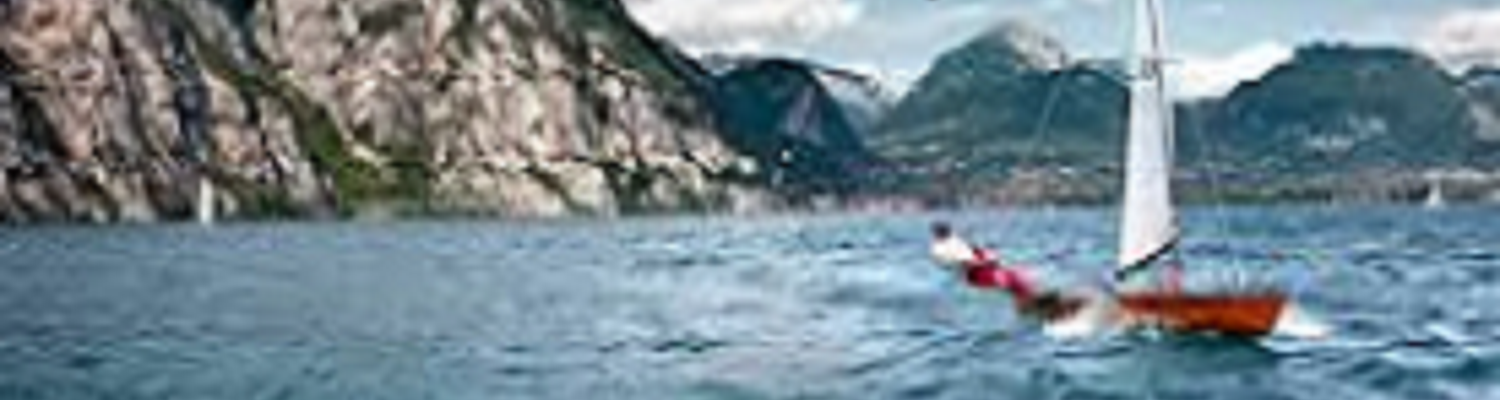
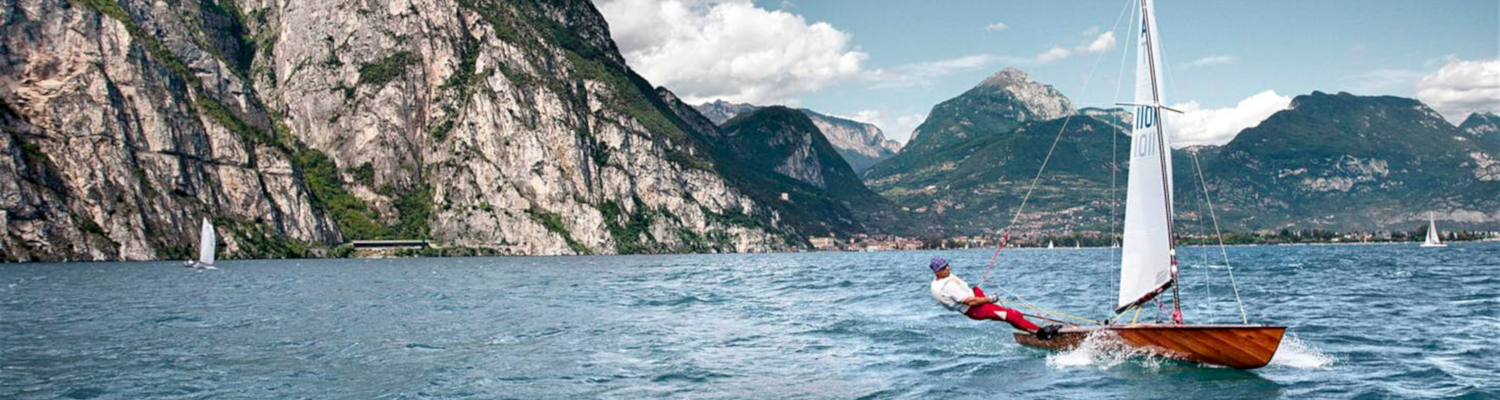
Actieviteiten opnieuw gestyled

diff --git a/src/app/frontend/components/activiteiten/activiteiten.component.html b/src/app/frontend/components/activiteiten/activiteiten.component.html
@@ -1,72 +1,38 @@
-<div id="carouselExampleIndicators" class="carousel slide" data-ride="carousel">
-  <ol class="carousel-indicators">
-    <li data-target="#carouselExampleIndicators" data-slide-to="0" class="active"></li>
-    <li data-target="#carouselExampleIndicators" data-slide-to="1"></li>
-    <li data-target="#carouselExampleIndicators" data-slide-to="2"></li>
-  </ol>
-  <div class="carousel-inner">
-    <div class="carousel-item active">
-      <img src="assets/img/activiteit_wandel.png" class="d-block w-100" alt="Wandelen" margin=auto>
-      <div class="container">
-        <div class="carousel-caption">
-          <h1 class="cslider">Wandelen</h1>
-          <p class="pSlider">Cras justo odio, dapibus ac facilisis in, egestas eget quam. Donec id elit non mi
-            porta
-            gravida at eget metus. Nullam id dolor id nibh ultricies vehicula ut id elit.</p>
-          <!--p><a class="btn btn-lg btn-primary" href="#" role="button">Informatie</a></p-->
+<div class="row mb-4">
+  <div class="col-lg-12">
+    <ngb-carousel *ngIf="images">
+      <ng-template ngbSlide>
+        <img [src]="images[0]" alt="Random first slide" style="width:100%; height:100%; background:#777; color:#777;">
+        <div class="carousel-caption carousel-inner-text">
+          <h2>ACTIVITEITEN</h2>
+          <p>Bij ons hoeft u zich nooit te vervelen. Wij bieden een groot aanbood aan activiteiten. Er is voor een ieder wat wils. Kijkt u regelmatig in ons steeds wisselende aanbod. We zien u graag terug. U bent van harte welkom!</p>
           <p>
-            <button type="button" class="btn btn-primary" data-toggle="modal"
-                    data-target="#exampleModal">Boeken
-            </button>
+            <button class="btn btn-lg btn-primary" (click)="open(modalReservation)">Reserveer</button>
           </p>
         </div>
-      </div>
-    </div>
-    <div class="carousel-item">
-      <img src="assets/img/activiteit_wijn.png" class="d-block w-100" alt="Wijn" margin=auto>
-      <div class="container">
-        <div class="carousel-caption">
-          <h1 class="cslider">Wijnproeven</h1>
-          <p class="pSlider">Cras justo odio, dapibus ac facilisis in, egestas eget quam. Donec id elit non mi
-            porta
-            gravida at eget metus. Nullam id dolor id nibh ultricies vehicula ut id elit.</p>
-          <!--p><a class="btn btn-lg btn-primary" href="#" role="button">Informatie</a></p-->
+      </ng-template>
+      <ng-template ngbSlide>
+        <img [src]="images[1]" alt="Random second slide" style="width:100%; height:100%; background:#777; color:#777;">
+        <div class="carousel-caption carousel-inner-text">
+          <h2>ACTIVITEITEN</h2>
+          <p>Bij ons hoeft u zich nooit te vervelen. Wij bieden een groot aanbood aan activiteiten. Er is voor een ieder wat wils. Kijkt u regelmatig in ons steeds wisselende aanbod. We zien u graag terug. U bent van harte welkom!</p>
           <p>
-            <button type="button" class="btn btn-primary" data-toggle="modal"
-                    data-target="#exampleModal">Boeken
-            </button>
+            <button class="btn btn-lg btn-primary" (click)="open(modalReservation)">Reserveer</button>
           </p>
         </div>
-      </div>
-    </div>
-    <div class="carousel-item">
-      <img src="assets/img/activiteit_zeilen.png" class="d-block w-100" alt="Zeilen" margin=auto>
-      <div class="container">
-        <div class="carousel-caption">
-          <h1 class="cslider">Zeilen</h1>
-          <p class="pSlider">Cras justo odio, dapibus ac facilisis in, egestas eget quam. Donec id elit non mi
-            porta
-            gravida at eget metus. Nullam id dolor id nibh ultricies vehicula ut id elit.</p>
-          <!--p><a class="btn btn-lg btn-primary" href="#" role="button">Informatie</a></p-->
+      </ng-template>
+      <ng-template ngbSlide>
+        <img [src]="images[2]" alt="Random third slide" style="width:100%; height:100%; background:#777; color:#777;">
+        <div class="carousel-caption carousel-inner-text">
+          <h2>ACTIVITEITEN</h2>
+          <p>Bij ons hoeft u zich nooit te vervelen. Wij bieden een groot aanbood aan activiteiten. Er is voor een ieder wat wils. Kijkt u regelmatig in ons steeds wisselende aanbod. We zien u graag terug. U bent van harte welkom!</p>
           <p>
-            <button type="button" class="btn btn-primary" data-toggle="modal"
-                    data-target="#exampleModal">Boeken
-            </button>
+            <button class="btn btn-lg btn-primary" (click)="open(modalReservation)">Reserveer</button>
           </p>
         </div>
-      </div>
-    </div>
+      </ng-template>
+    </ngb-carousel>
   </div>
-  <br>
-  <br>
-  <a class="carousel-control-prev" href="#carouselExampleIndicators" role="button" data-slide="prev">
-    <span class="carousel-control-prev-icon" aria-hidden="true"></span>
-    <span class="sr-only">Previous</span>
-  </a>
-  <a class="carousel-control-next" href="#carouselExampleIndicators" role="button" data-slide="next">
-    <span class="carousel-control-next-icon" aria-hidden="true"></span>
-    <span class="sr-only">Next</span>
-  </a>
 </div>
 
 <div class="container">

diff --git a/src/app/frontend/components/activiteiten/activiteiten.component.ts b/src/app/frontend/components/activiteiten/activiteiten.component.ts
@@ -6,10 +6,15 @@ import { Component, OnInit } from '@angular/core';
   styleUrls: ['./activiteiten.component.scss']
 })
 export class ActiviteitenComponent implements OnInit {
+  images = [
+    'assets/img/activiteit_wandel.png',
+    'assets/img/activiteit_wijn.png',
+    'assets/img/activiteit_zeilen.png'
+  ];
 
-  constructor() { }
+  closeResult = '';
 
-  ngOnInit() {
-  }
+  constructor() {}
 
+  ngOnInit() {}
 }

diff --git a/src/styles.scss b/src/styles.scss
@@ -90,3 +90,6 @@ header {
   font-size: small;
   color: grey;
 }
+.img-thumbnail {
+  height: 120px;
+}
